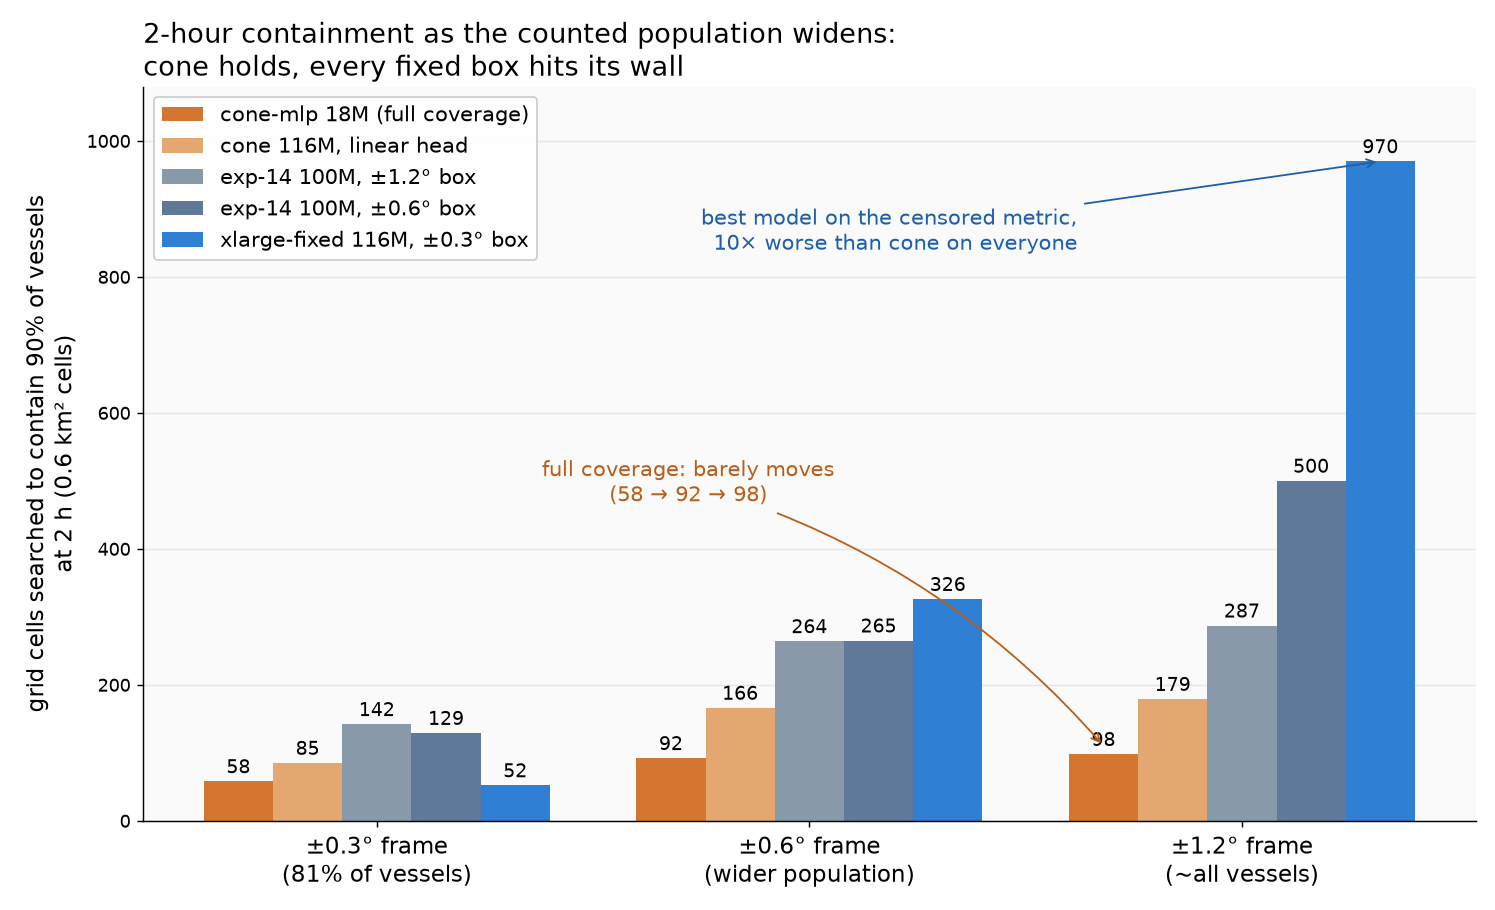
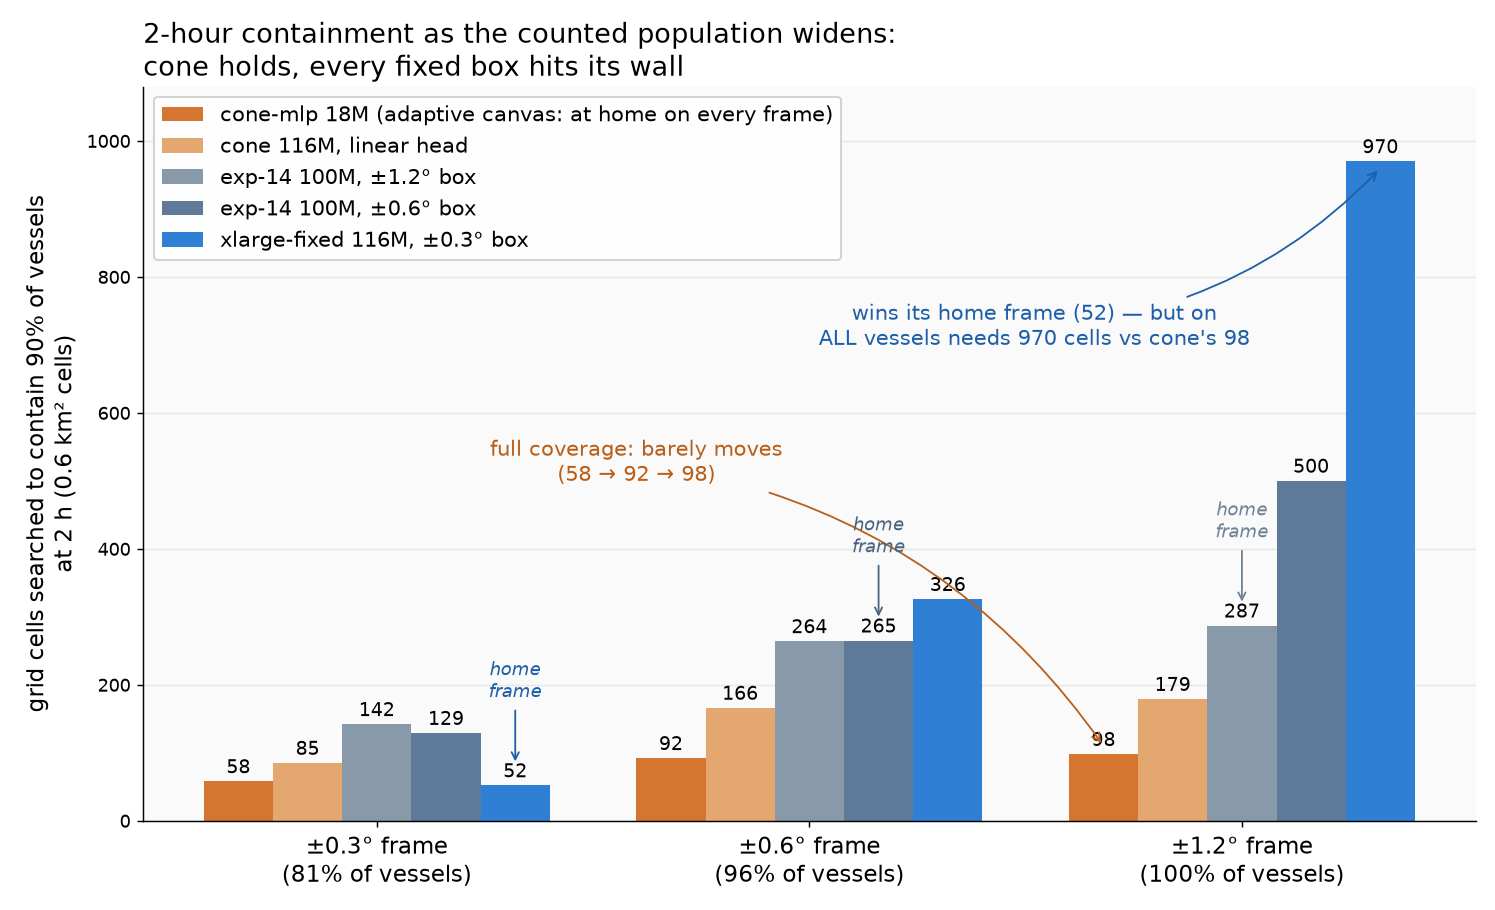
Coverage chart: home-frame markers, measured population fractions (81/96/100% at 2h over 15,481 val tracks), clarified wall callout

diff --git a/scripts/gen_widegrid_chart.py b/scripts/gen_widegrid_chart.py
@@ -19,15 +19,15 @@ base = {r["run"]: r["buckets"]["2h"]["fixgrid_p90_rank"]
         for r in json.load(open("/home/paul/data/trackfm/rescore_v2.json"))}
 
 MODELS = [  # (run, label, color)
-    ("scaling-large-cone-mlp-50M", "cone-mlp 18M (full coverage)", "#d4762f"),
+    ("scaling-large-cone-mlp-50M", "cone-mlp 18M (adaptive canvas: at home on every frame)", "#d4762f"),
     ("scaling-xlarge-cone-50M", "cone 116M, linear head", "#e3a76f"),
     ("recovered-exp14-100M-grid12", "exp-14 100M, ±1.2° box", "#8899aa"),
     ("recovered-exp14-100M-h800", "exp-14 100M, ±0.6° box", "#5f7a99"),
     ("scaling-xlarge-50M", "xlarge-fixed 116M, ±0.3° box", "#2f7fd4"),
 ]
 FRAMES = [("0.3", "±0.3° frame\n(81% of vessels)"),
-          ("0.6", "±0.6° frame\n(wider population)"),
-          ("1.2", "±1.2° frame\n(~all vessels)")]
+          ("0.6", "±0.6° frame\n(96% of vessels)"),
+          ("1.2", "±1.2° frame\n(100% of vessels)")]
 
 fig, ax = plt.subplots(figsize=(11.5, 7))
 x = np.arange(len(FRAMES))
@@ -55,14 +55,25 @@ ax.set_facecolor("#fafafa")
 
 # narrative callouts
 ax.annotate("full coverage: barely moves\n(58 → 92 → 98)",
-            xy=(2 - 2 * w, 110), xytext=(0.72, 470), fontsize=11.5,
+            xy=(2 - 2 * w, 110), xytext=(0.60, 500), fontsize=11.5,
             color="#b85f1a", ha="center",
             arrowprops=dict(arrowstyle="->", color="#b85f1a",
-                            connectionstyle="arc3,rad=-0.15"))
-ax.annotate("best model on the censored metric,\n10× worse than cone on everyone",
-            xy=(2 + 2 * w, 970), xytext=(1.62, 840), fontsize=11.5,
-            color="#1d5fa8", ha="right",
-            arrowprops=dict(arrowstyle="->", color="#1d5fa8"))
+                            connectionstyle="arc3,rad=-0.22"))
+ax.annotate("wins its home frame (52) — but on\nALL vessels needs 970 cells vs cone's 98",
+            xy=(2 + 2 * w, 960), xytext=(1.52, 700), fontsize=11.5,
+            color="#1d5fa8", ha="center",
+            arrowprops=dict(arrowstyle="->", color="#1d5fa8",
+                            connectionstyle="arc3,rad=0.2"))
+
+# home-field-advantage markers: each fixed box evaluated on its own
+# native frame
+for gx, mi, bar_top, color in [(0, 4, 52, "#1d5fa8"),      # xlarge @ ±0.3
+                                (1, 3, 265, "#4a6480"),     # exp14 ±0.6 @ ±0.6
+                                (2, 2, 287, "#6e8296")]:    # exp14 ±1.2 @ ±1.2
+    px = gx + (mi - (len(MODELS) - 1) / 2) * w
+    ax.annotate("home\nframe", xy=(px, bar_top + 30), xytext=(px, bar_top + 130),
+                fontsize=10, color=color, ha="center", style="italic",
+                arrowprops=dict(arrowstyle="->", color=color))
 fig.tight_layout()
 out = "docs/figures/coverage_story_2h.png"
 fig.savefig(out, dpi=130)